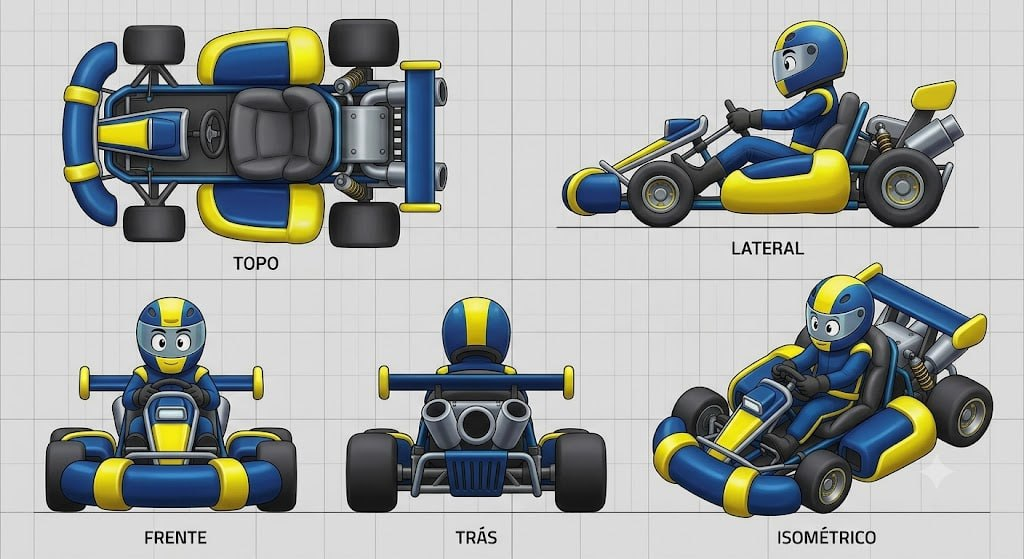
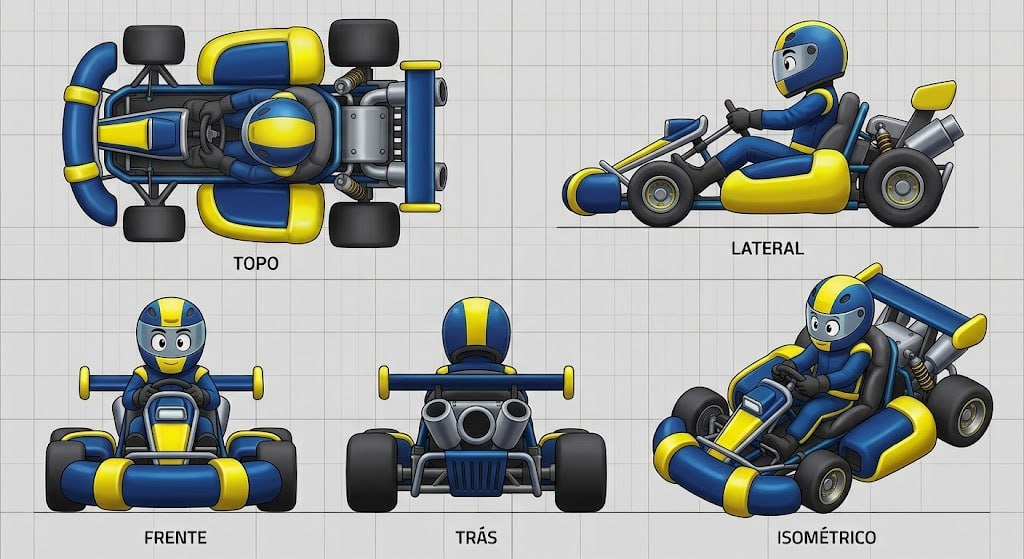
docs: update Bubble Bumper and catalog Aero-Dyno

Changed region(s): [[0.1875, 0.1521, 0.3125, 0.3345]]

diff --git a/concept-art/the-bubble-bumper/the-bubble-bumper.md b/concept-art/the-bubble-bumper/the-bubble-bumper.md
@@ -12,53 +12,55 @@ source_image: assets/the-bubble-bumper.jpg
 
 ## Descrição
 
-Design de kart que abraça uma estética de **bolha amigável**, arredondada e inflada, com aparência de brinquedo premium. A carroceria privilegia volumes macios e grossos, um cockpit aberto, volante espesso e pneus grandes, lisos e desproporcionais.
+Kart compacto de estética **bolha**, amigável e inflada, com aparência de brinquedo premium. A referência correta apresenta cinco vistas coordenadas: topo, lateral, frente, trás e isométrico.
 
 ## Vistas disponíveis
 
-A imagem contém cinco vistas identificadas:
-
-1. **Topo:** mostra a planta compacta, o bumper frontal largo, os quatro pneus grandes, o cockpit central aberto, o assento e o conjunto mecânico traseiro.
-2. **Lateral:** mostra a linha baixa do kart, o cockpit aberto com piloto sentado, o side pod inflado, o bumper frontal, suspensão aparente, molas traseiras e escapes.
-3. **Frente:** mostra o bumper tubular azul com segmentos amarelos, nariz central, pneus dianteiros largos, volante e piloto.
-4. **Trás:** mostra a barra traseira, pneus traseiros, conjunto de escapes duplos, suspensão e grade/difusor central.
-5. **Isométrico:** confirma a leitura tridimensional geral, a relação entre bumper, cockpit, side pods, piloto, pneus e mecânica traseira.
+1. **Topo:** mostra o bumper frontal em U, o nariz central, o cockpit aberto, o piloto visto de cima, o volante, os side pods arredondados, os quatro pneus, molas/suspensão e o conjunto traseiro com motor/escapes e barra transversal.
+2. **Lateral:** mostra a postura sentada do piloto, cockpit aberto, volante, side pod volumoso, bumper frontal baixo, suspensão dianteira, pneus lisos, motor traseiro exposto, molas e dois escapes inclinados.
+3. **Frente:** mostra o bumper largo azul com segmentos amarelos, nariz central com painel amarelo, barra/volante dianteiro, piloto centralizado e pneus dianteiros grandes.
+4. **Trás:** mostra a barra transversal azul com tampas amarelas, o módulo traseiro cinza, saída circular central, dois escapes prateados, grade inferior, molas e pneus traseiros.
+5. **Isométrico:** confirma a relação entre bumper, nariz, cockpit, piloto, side pods, pneus, suspensão e conjunto mecânico traseiro.
 
 ## Forma e proporção a preservar
 
-- Silhueta geral baixa, larga, arredondada e amigável.
-- Bumper frontal tubular, espesso e curvado, com duas extremidades elevadas; não substituir por uma lâmina fina ou para-choque retangular.
-- Side pods grandes e inflados, envolvendo a região lateral do cockpit.
-- Cockpit aberto, com assento escuro visível e volante grosso centralizado.
-- Pneus deliberadamente grandes, largos, pretos e lisos; não adicionar tread agressivo sem novo briefing.
-- Nariz frontal curto, arredondado e com pequeno painel/insert central.
-- Traseira exposta, com barra horizontal, molas, braços de suspensão e dois escapes inclinados para fora.
-- Piloto pequeno e estilizado, sentado dentro do cockpit; o concept mostra capacete fechado e macacão coordenado com a paleta do kart.
+- Silhueta baixa, larga, arredondada e amigável.
+- Bumper frontal tubular em U, espesso e curvado, com segmentos amarelos nas extremidades e no centro; não substituir por uma lâmina fina ou para-choque retangular.
+- Nariz central curto, com painel amarelo e volumes azuis laterais.
+- Cockpit aberto e profundo o suficiente para mostrar o assento, o piloto, o volante e a estrutura escura ao redor.
+- Volante/console dianteiro compacto, com aro escuro e suportes/haste visíveis.
+- Side pods grandes, azuis, com contorno amarelo espesso e forma arredondada.
+- Pneus deliberadamente grandes, pretos, largos e lisos; não adicionar tread agressivo sem novo briefing.
+- Piloto estilizado sentado, com macacão azul/amarelo, capacete azul/amarelo e rosto/visor expressivo visível.
+- Traseira exposta, com estrutura cinza, módulo circular central, grade inferior, molas, dois escapes prateados e barra horizontal traseira.
 
 ## Cor e material
 
 ### Customização permitida
 
-As regiões **amarela** e **azul** devem ser tratadas como canais potenciais de customização de cor. A separação de peças, a cobertura visual e os limites das regiões devem permanecer fiéis ao concept mesmo quando a paleta for alterada.
+As regiões **amarela** e **azul** são canais potenciais de customização de cor. A geometria, separação entre painéis e limites das regiões devem permanecer fiéis ao concept mesmo quando a paleta for alterada.
 
 ### Elementos que permanecem fiéis
 
-- Pneus: preto, lisos, com material emborrachado fosco.
-- Assento e cockpit interno: preto/cinza-escuro, com leitura acolchoada.
-- Chassi, suspensão e mecânica: cinza metálico escuro/prata, com molas e componentes expostos.
-- Volante: aro escuro e espesso, com centro mecânico visível.
-- Escapes: cinza metálico, dois tubos traseiros inclinados.
-- Visor do capacete e detalhes escuros: manter leitura escura e refletiva conforme o concept.
-- Fundo, grid e rótulos da imagem não fazem parte do asset.
+- Pneus: pretos, grandes, lisos e com material emborrachado fosco.
+- Chassi, braços, suportes, molas e suspensão: cinza metálico escuro/prata.
+- Motor traseiro e módulo mecânico: cinza/prata, com formas cilíndricas e placas visíveis.
+- Escapes: dois tubos prateados inclinados para cima/fora na traseira.
+- Grade/difusor inferior traseiro: escuro, vertical e claramente separado do módulo circular central.
+- Assento e cockpit interno: preto/cinza-escuro.
+- Volante, haste e estrutura interna: escuros, com ferragens visíveis.
+- Rosto/olhos expressivos do piloto e visor escuro do capacete: preservar a leitura visual do concept.
+- Fundo quadriculado, textos “TOPO/LATERAL/FRENTE/TRÁS/ISOMÉTRICO” e linhas de chão não fazem parte do asset.
 
 ## Notas de modelagem
 
 - Esta ficha é referência visual; não é autorização para iniciar modelagem.
-- Não inferir dimensões exatas a partir do grid da imagem sem um briefing de escala.
-- O amarelo e o azul são regiões de materialização/customização, não necessariamente materiais finais.
-- As cinco vistas devem ser consultadas juntas antes de definir qualquer geometria, principalmente o encaixe entre bumper frontal, side pods e mecânica traseira.
+- Não inferir dimensões exatas a partir do grid sem um briefing de escala.
+- Amarelo e azul representam regiões de materialização/customização, não materiais obrigatórios finais.
+- As cinco vistas devem ser consultadas simultaneamente antes de definir geometria, principalmente no encaixe do bumper, side pods, cockpit e motor traseiro.
+- A vista isométrica não deve substituir as vistas ortográficas para proporções e contatos.
 
 ## Arquivo-fonte
 
 - `assets/the-bubble-bumper.jpg`
-- Arquivo recebido: `img_2fe9f71bd7c1.jpg`
+- Arquivo recebido: `img_0e5c6ba8af57.jpg`

diff --git a/concept-art/aero-dyno/aero-dyno.md b/concept-art/aero-dyno/aero-dyno.md
@@ -1,0 +1,67 @@
+---
+name: aero-dyno
+display_name: Aero-Dyno
+category: concept-art
+status: reference-only
+source_image: assets/aero-dyno.jpg
+---
+
+# Aero-Dyno
+
+![Aero-Dyno — cinco vistas](assets/aero-dyno.jpg)
+
+## Descrição
+
+Design que adapta a silhueta de um protótipo de Le Mans/LMP1 ao mundo cartunesco. O kart é extremamente baixo, longo e aerodinâmico, parecendo uma bolha de velocidade sobre o asfalto. A cartunização está nas formas fluidas e arredondadas, na cabine bolha integrada e na grande asa traseira com leitura de “asa de tubarão”. Os pneus são finos e lisos, reforçando a ideia de velocidade máxima.
+
+## Vistas disponíveis
+
+A imagem contém cinco painéis rotulados:
+
+1. **Topo:** mostra o corpo longo, a cabine central integrada, os side pods fluidos, os faróis dianteiros, as rodas finas e o conjunto traseiro com motor/escapes e asa transversal.
+2. **Lateral:** mostra a altura extremamente baixa, o nariz longo, a cabine bolha, os side pods esculpidos, os pneus finos, o piloto baixo e a asa traseira elevada.
+3. **Frente:** mostra a frente larga com dois faróis grandes, nariz central amarelo, entradas/grades inferiores e as rodas dianteiras parcialmente carenadas.
+4. **Trás:** mostra a asa transversal, suportes traseiros, módulo central circular, dois escapes inclinados e a grade/difusor inferior.
+5. **Isométrico:** confirma a leitura de protótipo de endurance cartunesco, com carroceria fluida, cockpit integrado, side pods, rodas finas e aero traseira dominante.
+
+## Forma e proporção a preservar
+
+- Silhueta muito baixa, longa e larga, com leitura de velocidade mesmo parado.
+- Nariz frontal comprido e afilado, sem bumper tubular volumoso de kart tradicional.
+- Cabine bolha totalmente integrada à carroceria, com transição suave para o capô e os side pods.
+- Side pods fluidos, arredondados e carenados, formando uma cintura aerodinâmica contínua.
+- Dois faróis dianteiros grandes, ovais e embutidos nas extremidades frontais.
+- Rodas/pneus finos, lisos e visualmente rápidos; não usar pneus largos de kart sem novo briefing.
+- Piloto baixo, encaixado na cabine, com capacete visível acima da linha da carroceria.
+- Grande asa traseira transversal, com suportes verticais e leitura de “asa de tubarão”.
+- Módulo traseiro exposto com saída circular central, dois escapes inclinados e grade/difusor inferior.
+
+## Cor e material
+
+### Customização permitida
+
+As regiões **amarela** e **azul** são canais potenciais de customização de cor. A geometria, as divisões de painéis e os limites dessas regiões devem permanecer fiéis ao concept.
+
+### Elementos que permanecem fiéis
+
+- Pneus: pretos, finos, lisos e com material emborrachado fosco.
+- Cabine/visor: escuro, transparente ou fumê, integrado à carroceria.
+- Faróis: claros, luminosos e ovais, embutidos na frente.
+- Chassi, suportes, suspensão e ferragens: cinza metálico escuro/prata.
+- Motor, módulo traseiro, escapes e grade: metálicos/cinzas, preservando a leitura mecânica.
+- Asa traseira: estrutura escura/azul conforme o concept, com bordas e suportes legíveis.
+- Piloto: capacete e rosto/visor expressivo devem manter a leitura cartunesca do concept.
+- Grid, textos dos painéis e linhas de chão não fazem parte do asset.
+
+## Notas de modelagem
+
+- Esta ficha é referência visual; não é autorização para iniciar modelagem.
+- Não inferir dimensões exatas a partir do grid sem um briefing de escala.
+- Amarelo e azul representam regiões de materialização/customização, não materiais finais obrigatórios.
+- A cabine, a linha inferior do nariz, os side pods e a asa traseira devem ser validados simultaneamente nas cinco vistas.
+- A asa “de tubarão” é elemento de identidade principal e não deve ser reduzida a um aerofólio genérico.
+
+## Arquivo-fonte
+
+- `assets/aero-dyno.jpg`
+- Arquivo recebido: `img_e39a23e62dad.jpg`

diff --git a/concept-art/README.md b/concept-art/README.md
@@ -5,3 +5,4 @@ Catálogo das concept arts oficiais recebidas para o Super Kart 3D.js. Cada conc
 ## Concepts catalogados
 
 - [[the-bubble-bumper/the-bubble-bumper|The Bubble Bumper]] — kart arredondado, amigável e inflado, com bumper frontal tubular e cockpit aberto.
+- [[aero-dyno/aero-dyno|Aero-Dyno]] — protótipo cartunesco de endurance/LMP1, extremamente baixo e aerodinâmico, com cabine bolha e asa traseira de tubarão.
